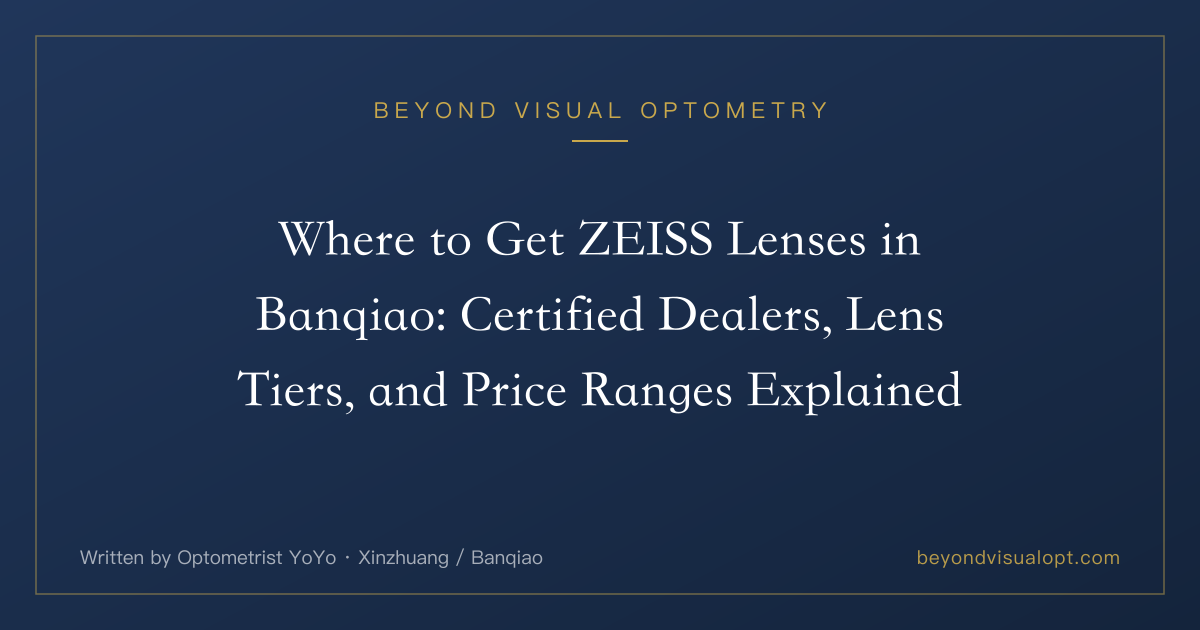
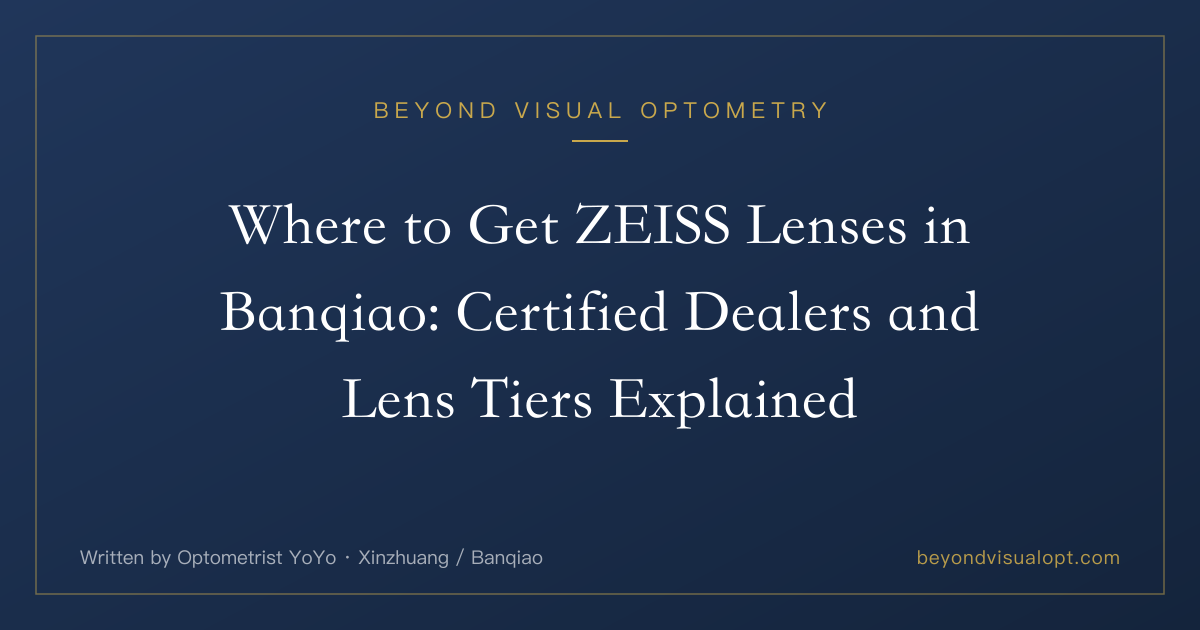
鏡片分類第 1 步：已上線錯誤急修＋標題調整（官網部→國文編審→法務→交叉快篩🟢）
- 板橋蔡司刪價格帶與點名同業「10 分鐘快速驗光」
- NIKON 改依原廠資料：鏡片事業為 Nikon-Essilor 合資；SeeMax Ultimate 為漸進
- 品牌名後效能詞（數位減壓、降低視覺疲勞、脖子痠）改設計結構描述
- 鍍膜「抗藍光並非醫療器材」改「有度數的眼鏡鏡片在台灣屬醫療器材管理」；螢幕族 FAQ 刪睡眠改善
- 經銷「等」字改「蔡司 ZEISS 簽約認證經銷、HOYA 經銷」；「能見度眼鏡行新莊店」店名錯誤修正
- 依視路比較文加經銷揭露句，FAQ 不以「哪裡有」帶出不經銷品牌
- 4 篇 FAQ 格式修正（12 題進 schema）；5 篇 H1 調整

Changed region(s): [[0.185, 0.3016, 0.8017, 0.4222], [0.185, 0.4524, 0.8325, 0.5429], [0.185, 0.573, 0.8017, 0.6937]]

diff --git a/src/content/blog-en/banqiao-zeiss-lens-guide.md b/src/content/blog-en/banqiao-zeiss-lens-guide.md
@@ -1,8 +1,8 @@
 ---
-title: "Where to Get ZEISS Lenses in Banqiao: Certified Dealers, Lens Tiers, and Price Ranges Explained"
+title: "Where to Get ZEISS Lenses in Banqiao: Certified Dealers and Lens Tiers Explained"
 date: "2026-07-08"
 tag: "Lenses"
-excerpt: "Looking to get ZEISS lenses in Banqiao? How do you confirm a store is an officially certified dealer? What's the real difference between ZEISS's entry-level and Individual² tiers, and what's a reasonable price range? Beyond Visual Optometry — a 30-year practice by Jiangzicui Station — breaks it all down."
+excerpt: "Looking to get ZEISS lenses in Banqiao? How do you confirm a store is an officially certified dealer? What's the real difference between ZEISS's entry-level and Individual² tiers? Beyond Visual Optometry — a 30-year practice by Jiangzicui Station — breaks it all down."
 ---
 
 ## Why Does It Matter Whether a Store Is a "Certified ZEISS Dealer"?
@@ -20,32 +20,24 @@ Beyond Visual Optometry (Banqiao) is a certified ZEISS dealer in Taiwan, founded
 | Tier | Representative Series | Best For |
 |------|---------|--------|
 | Standard | ClearView, etc. | Straightforward prescriptions, budget-focused |
-| Digital comfort | Digital Lens | Office workers on screens 6+ hours a day |
+| Near-addition design | Digital Lens | Long stretches of close-range work (screens, phones) |
 | Driving-enhanced | DriveSafe | Frequent drivers concerned about night glare |
 | Progressive multifocal | Progressive series | Presbyopia, needing distance, intermediate, and near all clear |
 | Personalized custom | Individual² | High prescriptions, significant astigmatism, those particular about visual quality |
 
 **The key point: the difference between brands is often smaller than the difference between tiers within the same brand.** A premium, personalized HOYA lens can very plausibly outperform an entry-level ZEISS lens. Beyond Visual Optometry is also a HOYA dealer, so we can compare the two brands side by side objectively — see our [complete lens brand guide](/en/guide/) for more detail.
 
-## Price Range: What Counts as Reasonable?
-
-Common price points in the Banqiao market (in New Taiwan Dollars):
-
-- **Basic single-vision lenses:** about NT$2,000–6,000
-- **ZEISS digital comfort / functional single-vision lenses:** about NT$6,000–12,000
-- **ZEISS progressive lenses:** about NT$12,000–30,000 or more (depending on personalization level)
-
-The core driver of price is the **optical design and personalized parameters**, not the raw material cost. Do a full vision exam first, confirm what you actually need, and then choose a tier — that way you don't overspend. "We don't chase the most expensive option, only the one that actually fits you" has been Beyond Visual Optometry's principle for 30 years.
+What separates the tiers is the **optical design and personalized parameters**. Do a full vision exam first, confirm what you actually need, and then choose a tier. "We don't chase the most expensive option, only the one that actually fits you" has been Beyond Visual Optometry's principle for 30 years.
 
 ## Same ZEISS Lens, So Why Does the Result Differ From Store to Store?
 
 The lens is identical — the difference is in **the fitting**:
 
-- The precision of the objective and subjective refraction (a lot of Banqiao shops still do 10-minute quick refractions, which makes the prescription prone to drift)
+- Whether the objective and subjective refraction, plus a binocular vision assessment, are done in full
 - Whether the personal parameters Individual² needs (wearing distance, pantoscopic tilt, head-turning habits) are actually measured
 - Fitting height and optical-center alignment — a 2mm difference is noticeable for high-prescription wearers
 
-ZEISS provides the optical ceiling; the fitting determines how much of it you actually get to use. Beyond Visual Optometry's full vision exam takes about 45–60 minutes, performed one-on-one by our licensed optometry staff; for glasses fitted with us, frame adjustments after pickup are included at no extra charge.
+ZEISS provides the optical ceiling; the fitting determines how much of it you actually get to use. Beyond Visual Optometry's full vision exam takes about 45–60 minutes and includes a binocular vision assessment every time at both stores, performed one-on-one by our licensed optometry staff; for glasses fitted with us, frame adjustments after pickup are included at no extra charge.
 
 ---
 

diff --git a/src/content/blog-en/essilor-lens-guide.md b/src/content/blog-en/essilor-lens-guide.md
@@ -31,16 +31,16 @@ Varilux is Essilor's flagship progressive multifocal series and one of the names
 
 ---
 
-### Digital-Comfort Lenses: The Eyezen Series
+### Near-Addition Single Vision: The Eyezen Series
 
 Eyezen is Essilor's functional single-vision lens designed for the digital age, with two main features:
 
-1. **Slight accommodative support:** A small amount of added power is built into the lower portion of the lens, reducing the load on the ciliary muscle during close-range work
-2. **Selective blue light filtering:** Filters part of the high-energy, short-wavelength blue light, supporting visual comfort during long screen sessions
+1. **Near-addition design:** A small amount of plus power is added to the lower portion of the lens for close-range viewing (per the manufacturer's public information)
+2. **Blue light filtering:** Filters part of the short-wavelength blue light (per the manufacturer's public information)
 
 Eyezen isn't a presbyopia lens — it looks just like a standard single-vision lens — and suits people aged roughly 20–45 who spend a lot of time on digital devices but don't yet need progressives.
 
-**Best for:** Digital workers, students, and anyone who spends long hours on a phone or computer and notices their eyes get tired after work.
+**Best for:** Digital workers, students, and anyone who spends long hours on a phone or computer.
 
 ---
 
@@ -71,7 +71,7 @@ This is a functional lens that requires assessment and fitting by an optometrist
 
 Essilor's product line spans a wide range, with a substantial price gap between entry-level and premium personalized options. When choosing a lens, the key isn't brand recognition — it's **whether the lens design actually matches how you use your eyes in daily life:**
 
-- Is your main concern near-vision fatigue, or do you need both distance and near equally clear?
+- Do you mostly work up close for long hours, or do you need both distance and near equally clear?
 - Do you spend a lot of time outdoors, or mostly indoors looking at screens?
 - What are your priorities on lens thinness and coating durability?
 
@@ -83,11 +83,11 @@ The visual-quality difference between tiers within the same series is real, but 
 
 **Q: Where in Xinzhuang can I get a consultation on Essilor Varilux progressive lenses?**
 
-At Beyond Visual Optometry (No. 419-1, Zhongzheng Rd., Xinzhuang Dist., New Taipei City), our licensed optometry staff can compare Essilor Varilux objectively against ZEISS and HOYA progressive options, based on your visual habits and presbyopia level. Book at +886-2-2206-6700.
+At Beyond Visual Optometry (No. 419-1, Zhongzheng Rd., Xinzhuang Dist., New Taipei City), our licensed optometry staff can compare Essilor Varilux objectively against the ZEISS and HOYA progressive options we carry, based on your visual habits and presbyopia level. Book at +886-2-2206-6700.
 
-**Q: Where in Banqiao can I find Essilor lenses?**
+**Q: Where in Banqiao can I compare Essilor with other progressive lenses?**
 
-Beyond Visual Optometry (No. 28, Ln. 47, Sec. 2, Shuangshi Rd., Banqiao Dist., New Taipei City) offers progressive lens consultations and brand comparisons. Call +886-2-2253-1246.
+Beyond Visual Optometry (No. 28, Ln. 47, Sec. 2, Shuangshi Rd., Banqiao Dist., New Taipei City) offers progressive lens consultations and brand comparisons. We are a ZEISS and HOYA dealer; the Essilor product details in this article are compiled from the manufacturer's public information for comparison. Call +886-2-2253-1246.
 
 **Q: What's the difference between Varilux and a typical progressive lens?**
 
@@ -95,7 +95,7 @@ Varilux's core technology lies in wavefront aberration correction and personaliz
 
 **Q: What age is Eyezen suitable for?**
 
-There's no strict age limit for Eyezen — it's mainly suited to people who use digital devices heavily and feel eye fatigue after long stretches of close-range work. It's generally recommended for adults 18 and up; for minors, we recommend having an optometrist assess suitability first.
+There's no strict age limit for Eyezen — it's mainly suited to people who use digital devices heavily and do long stretches of close-range work. It's generally recommended for adults 18 and up; for minors, we recommend having an optometrist assess suitability first.
 
 ---
 

diff --git a/src/content/blog/glass-vs-resin-lens.md b/src/content/blog/glass-vs-resin-lens.md
@@ -1,5 +1,5 @@
 ---
-title: 玻璃鏡片和樹脂鏡片差在哪？現在還該選玻璃嗎｜能見度視覺中心
+title: "玻璃鏡片和樹脂鏡片差在哪？現在還有人配玻璃嗎"
 date: 2026-07-27
 tag: "鏡片知識"
 excerpt: 玻璃鏡片耐刮、光學乾淨，卻幾乎在台灣門市消失。樹脂輕、安全、能鍍膜能變色，成了九成以上的選擇。這篇把重量、厚薄、阿貝數、耐刮、抗衝擊一次講清楚，也講明白哪些人現在仍然適合玻璃。新莊、板橋能見度視覺中心，由驗光人員看過你的度數、鏡框，還有你平常怎麼用眼，再說明差別在哪。
@@ -178,23 +178,23 @@ instagram: ""
 
 ## 常見問題
 
-**Q：玻璃鏡片現在還有人在用嗎？**
+### Q：玻璃鏡片現在還有人在用嗎？
 
 有，但比例極低，在台灣門市多半屬於特別訂製的品項。目前還會用到玻璃的，大致是三種人：度數極深、對厚度的要求高到樹脂 1.74 也滿足不了的；用眼環境靜態、對刮痕極度敏感的；還有部分需要特殊光學規格的個案。訂製通常也要多等一段時間。一般的日常配鏡、漸進多焦點、無框鏡架、需要變色或染色的需求，市面上幾乎都是樹脂。適不適合你，建議由驗光人員看過你的度數與鏡框後再判斷。
 
-**Q：樹脂鏡片是不是很容易刮花？**
+### Q：樹脂鏡片是不是很容易刮花？
 
 樹脂的原生材料確實比玻璃軟，但現在的樹脂鏡片出廠時都會加上硬化膜，耐磨表現比早期產品好非常多，正常使用下可以撐過一副眼鏡的完整生命週期。真正把鏡片弄花的，多半是清潔習慣：乾擦、用衣角擦、放桌上鏡面朝下，這三件事最傷鏡片。正確做法是先用清水沖掉表面砂塵，再用乾淨的專用拭鏡布擦。如果你的使用環境粉塵特別多，配鏡時可以主動跟驗光人員討論鍍膜的選擇。
 
-**Q：玻璃鏡片是不是比較清楚？**
+### Q：玻璃鏡片是不是比較清楚？
 
 要看你說的「清楚」是什麼。視力清不清楚，取決於度數配得準不準、鏡片光學中心有沒有對準你的瞳孔、鏡架調整到不到位，這些跟材質沒有直接關係。玻璃真正的光學優勢在**色散比較少**：同樣厚薄等級下，玻璃的阿貝數通常略高，所以在夜間頭燈、路燈這類高反差光源下，物體邊緣的彩色鑲邊會少一些。這在深度數又常在晚上開車的人身上比較容易被感受到，一般日常用眼的差異則相當有限。
 
-**Q：玻璃鏡片可以做變色或抗藍光嗎？**
+### Q：玻璃鏡片可以做變色或抗藍光嗎？
 
 抗反射鍍膜可以做，玻璃本來就是鍍膜技術的起點。變色的部分要注意：傳統玻璃變色是把感光的鹵化銀微晶均勻分布在整片鏡片裡，顏色深淺會隨鏡片厚度改變，度數高的鏡片中央與邊緣厚薄差大，變色後容易出現顏色不均。染色與漸層染色的自由度也遠不如樹脂。如果你有變色、染色或藍光過濾設計的需求，樹脂的可行性與成熟度明顯較高。
 
-**Q：高度近視選玻璃會不會比較薄？**
+### Q：高度近視選玻璃會不會比較薄？
 
 會薄一些，因為玻璃可以做到 1.80、1.90 的折射率，樹脂主流最高是 1.74。但要一起算另一筆帳：高折射率玻璃的比重更高，你換來的薄，代價是更重的鏡片壓在鼻樑上，而且高折射率玻璃的阿貝數也會下降。實務上還要看鏡框，框越大、鏡片直徑越大，厚度與重量的懲罰越明顯。所以高度數要壓厚度，材質只是其中一個變數，鏡框尺寸的選擇往往影響更大。建議帶著現有的眼鏡到門市，由驗光人員實際比對後再決定。
 
@@ -215,4 +215,4 @@ instagram: ""
 
 各折射率與材質規格，官網鏡片專區也整理好了：[能見度鏡片專區](https://beyondvisualopt.com/lenses/)。
 
-（能見度視覺中心經銷蔡司 ZEISS、HOYA 等品牌鏡片，玻璃與樹脂各規格可到店實際比較。）
+（能見度視覺中心是蔡司 ZEISS 簽約認證經銷、HOYA 經銷，玻璃與樹脂各規格可到店實際比較。）

diff --git a/src/content/blog/same-index-different-feel.md b/src/content/blog/same-index-different-feel.md
@@ -1,5 +1,5 @@
 ---
-title: 同樣 1.67，為什麼有些鏡片戴起來就是不一樣｜能見度視覺中心
+title: "同樣是 1.67，為什麼鏡片戴起來會不一樣？"
 date: 2026-08-10
 tag: "鏡片知識"
 excerpt: 兩家店都跟你說「1.67」，價差卻拉開一大截，你以為在買同一片東西。折射率只管一件事：同度數要做多厚。真正決定你戴起來順不順的，是阿貝數、面型設計、鍍膜結構，還有這片鏡片最後裝進了什麼框、對到了什麼位置。新莊、板橋能見度視覺中心，由驗光人員把「1.67」後面沒寫出來的東西講清楚。
@@ -151,23 +151,23 @@ instagram: ""
 
 ## 常見問題
 
-**Q：同樣 1.67，為什麼價差可以到一倍以上？**
+### Q：同樣 1.67，為什麼價差可以到一倍以上？
 
 因為 1.67 只標示了材料的折射率，也就是同度數下鏡片做出來多厚，它沒有標示面型設計、鍍膜規格與是否納入個人化參數。同一個 1.67 可以是球面、非球面、雙面非球面或個人化自由曲面，這幾種的設計與加工成本本來就不同級距；鍍膜的層數與防潑水防油汙處理也各有差異。所以看到價差時，該問的是系列與等級，而不是折射率。實際適不適合你，建議由驗光人員看過你的度數、鏡框與用眼習慣後再判斷。
 
-**Q：1.67 的鏡片是不是一定比 1.60 好？**
+### Q：1.67 的鏡片是不是一定比 1.60 好？
 
 不是。折射率只決定同度數下的厚薄，數字高不代表看得比較清楚。而且折射率往上走，阿貝數多半會往下掉，也就是夜間高反差光源下的色散可能反而多一點。度數不深的人選 1.67，換來的厚薄差異其實有限。折射率是「度數越深越有感」的規格，值不值得，要放進你的度數、鏡框大小與外觀在意程度一起算。
 
-**Q：晚上開車看路燈有一圈彩色的邊，是鏡片有問題嗎？**
+### Q：晚上開車看路燈有一圈彩色的邊，是鏡片有問題嗎？
 
 那多半是色散，跟阿貝數有關，不一定是鏡片瑕疵。高折射率材料的阿貝數較低，色散相對明顯，而且視線越偏離鏡片光學中心（例如轉頭看後照鏡）越容易被察覺。不過在下結論之前，有幾件事要先排除：光學中心有沒有對準瞳孔、鏡框有沒有變形或下滑、抗反射鍍膜的狀況如何。這幾件都會影響夜間的視覺舒適度，驗光人員實際量過才分得出是哪一段造成的，眼鏡帶著一起來會快很多。
 
-**Q：換品牌會不會比較好？**
+### Q：換品牌會不會比較好？
 
 不一定，要看你換的是「品牌」還是「等級」。同一個品牌裡，入門系列跟個人化系列的落差，常常比兩個品牌的同等級之間更大。真正決定體感的順序是：驗光精準度 → 配鏡參數 → 鏡框調整 → 鏡片設計與材質。前三項沒到位就換品牌，通常換不出你要的結果。
 
-**Q：我要怎麼知道自己現在戴的是哪一種 1.67？**
+### Q：我要怎麼知道自己現在戴的是哪一種 1.67？
 
 把你的配鏡單據或鏡片保證書帶著，上面通常會註記系列名稱與鍍膜項目。如果單據已經找不到了，帶著眼鏡到門市，驗光人員可以用鏡片鑑別的方式協助判讀基本資訊，再對照你實際的用眼狀況，看看下一副該調整哪一段。
 
@@ -186,4 +186,4 @@ instagram: ""
 
 各折射率與系列規格，官網鏡片專區也整理好了：[能見度鏡片專區](/lenses/)。
 
-（能見度視覺中心經銷蔡司 ZEISS、HOYA 等品牌鏡片，各折射率與系列規格可到店實際比較。）
+（能見度視覺中心是蔡司 ZEISS 簽約認證經銷、HOYA 經銷，各折射率與系列規格可到店實際比較。）

diff --git a/src/content/blog/essilor-lens-guide.md b/src/content/blog/essilor-lens-guide.md
@@ -31,16 +31,16 @@ Varilux 是依視路的旗艦漸進多焦點系列，也是全球漸進鏡片的
 
 ---
 
-### 數位減壓鏡片：Eyezen 系列
+### 近用加成設計單光：Eyezen 系列
 
 Eyezen 是依視路針對數位時代設計的功能型單光鏡片，主要特色有兩個：
 
-1. **輕微調節輔助設計**：鏡片下方加入微量加入度，減少睫狀肌在近距離用眼時的負荷
-2. **選擇性藍光過濾**：過濾部分高能短波藍光，降低長時間看螢幕的視覺疲勞感
+1. **分區度數設計**：鏡片下方加入少量正度數，對應看近距離的用眼（依原廠公開資料）
+2. **藍光過濾**：過濾一部分短波長藍光（依原廠公開資料）
 
 Eyezen 不是老花鏡，外觀與一般單光鏡片相同，適合 20–45 歲、每天大量使用 3C 設備但尚不需要漸進多焦點的族群。
 
-**適合族群：** 數位工作者、學生、長時間使用手機或電腦且感覺下班後眼睛容易疲勞的族群。
+**適合族群：** 數位工作者、學生，以及每天長時間看手機或電腦的人。
 
 ---
 
@@ -71,7 +71,7 @@ Stellest 是依視路近年推出的兒童離焦設計鏡片，採用**H.A.L.T. 
 
 Essilor 的產品線相當廣，從入門到頂級個人化訂製價差極大。選鏡片時，關鍵不在品牌知名度，而在於**這片鏡片的設計是否符合你實際的用眼情境**：
 
-- 你主要需要解決的是近距離疲勞，還是遠近都要清楚？
+- 你主要是長時間看近，還是遠近都要清楚？
 - 你每天在戶外的時間多，還是大多待在室內看螢幕？
 - 你對鏡片厚薄、鍍膜耐用度的要求是什麼？
 
@@ -83,11 +83,11 @@ Essilor 的產品線相當廣，從入門到頂級個人化訂製價差極大。
 
 **Q：新莊哪裡可以諮詢依視路 Varilux 漸進鏡片？**
 
-能見度視覺中心 × 比泱驗光所（新北市新莊區中正路419-1號）可由驗光人員依據你的用眼習慣與老花度數，客觀比較依視路 Varilux 與蔡司、HOYA 等品牌的漸進方案，歡迎預約 02-2206-6700。
+能見度視覺中心 × 比泱驗光所（新北市新莊區中正路419-1號）可由驗光人員依據你的用眼習慣與老花度數，客觀比較依視路 Varilux 與本店經銷的蔡司、HOYA 漸進方案，歡迎預約 02-2206-6700。
 
-**Q：板橋哪裡有依視路鏡片可以選？**
+**Q：板橋哪裡可以比較依視路與其他品牌的漸進鏡片？**
 
-能見度眼鏡行 × 能見度驗光所（新北市板橋區雙十路二段47巷28號）提供漸進多焦點鏡片選配諮詢與品牌比較，歡迎來電諮詢 02-2253-1246。
+能見度眼鏡行 × 能見度驗光所（新北市板橋區雙十路二段47巷28號）提供漸進多焦點鏡片選配諮詢與品牌比較。本店經銷蔡司 ZEISS 與 HOYA；本文的依視路產品資訊依原廠公開資料整理，供比較參考。歡迎來電諮詢 02-2253-1246。
 
 **Q：Varilux 和一般漸進鏡片有什麼差別？**
 
@@ -95,7 +95,7 @@ Varilux 的核心技術在於波前像差補正與個人化計算，讓視野過
 
 **Q：Eyezen 適合多大年齡配戴？**
 
-Eyezen 沒有嚴格的年齡限制，主要適合大量使用 3C 設備、長時間近距離用眼後感覺疲勞的族群。一般建議 18 歲以上成人使用，未成年族群建議由驗光人員評估後決定。
+Eyezen 沒有嚴格的年齡限制，主要適合大量使用 3C 設備、長時間近距離用眼的族群。一般建議 18 歲以上成人使用，未成年族群建議由驗光人員評估後決定。
 
 ---
 

diff --git a/src/content/blog-en/lens-coating-guide.md b/src/content/blog-en/lens-coating-guide.md
@@ -64,7 +64,7 @@ This is an optional feature, especially useful for anyone who wears a mask for l
 
 Blue-light coating filters out a portion of the shorter-wavelength **high-energy visible blue light**, much of which comes from phone, computer, and tablet screens. In practice, it **filters specific wavelength bands of blue light**; some users report a more comfortable viewing experience during long screen sessions, and the lens may carry a slight yellowish tint or reflective cast.
 
-To be clear: blue-light coating is a type of **light-filtering** design. It is not a medical device, and it cannot claim to prevent any eye disease or condition. Whether it's right for you depends on your actual screen habits, not on what an ad claims. For a fuller picture of screen use and visual fatigue, see our guide to digital eye strain.
+To be clear: blue-light coating is a type of **light-filtering** design. Prescription eyeglass lenses are regulated as medical devices in Taiwan, and the coating cannot claim to prevent or treat any eye disease. Whether it's right for you depends on your actual screen habits, not on what an ad claims. For a fuller picture of screen use and visual fatigue, see our guide to digital eye strain.
 
 **What it solves:** filtering part of the high-energy blue light and adjusting visual comfort during extended screen use.
 
@@ -123,7 +123,7 @@ The answers to these questions decide what coating you need — far more reliabl
 
 **Q: Is blue-light coating necessary?**
 
-It depends on your screen habits. Blue-light coating filters part of the high-energy short-wavelength blue light mainly emitted by screens, and some people who spend long hours looking at screens report it feels more comfortable. That said, it isn't a medical device and can't claim to prevent eye disease. If you spend more than 6 hours a day on a computer or phone, it's worth considering; if your screen time is limited, it may not be essential. We recommend discussing your actual situation with a licensed optometrist.
+It depends on your screen habits. Blue-light coating filters part of the short-wavelength blue light. Prescription eyeglass lenses are regulated as medical devices in Taiwan, and the coating can't claim to prevent or treat eye disease. If you spend long hours on a computer or phone each day, it's worth considering; if your screen time is limited, it may not be essential. We recommend discussing your actual situation with a licensed optometrist.
 
 **Q: Do lens coatings wear off?**
 

diff --git a/src/content/blog-en/hoya-lens-guide.md b/src/content/blog-en/hoya-lens-guide.md
@@ -4,7 +4,7 @@ date: "2026-06-24"
 tag: "Lenses"
 excerpt: "HOYA is one of Japan's leading names in precision optics, with a lineup spanning single-vision lenses to personalized progressive multifocals that covers nearly every visual need. Optometrist YoYo at Beyond Visual Optometry walks you through the design logic behind each HOYA series and who it's best suited for."
 seoTitle: "HOYA Lenses Explained | Japanese Lens Brand Series Guide | Beyond Visual Optometry Xinzhuang & Banqiao"
-seoDescription: "A complete guide to HOYA's lens series: Nulux single-vision, iD progressive multifocals, Sync III digital-strain relief, and MiYOSMART defocus lens design. Optometrist YoYo at Beyond Visual Optometry's Xinzhuang store explains the design logic and ideal candidates for each series."
+seoDescription: "A complete guide to HOYA's lens series: Nulux single-vision, iD progressive multifocals, Sync III near-addition design, and MiYOSMART defocus lens design. Optometrist YoYo at Beyond Visual Optometry's Xinzhuang store explains the design logic and ideal candidates for each series."
 keywords: "HOYA lenses,HOYA progressive lenses,HOYA iD,HOYA Sync III,HOYA MiYOSMART,Japanese lens brands,Xinzhuang HOYA,Banqiao HOYA lenses,Beyond Visual Optometry"
 ---
 
@@ -28,13 +28,13 @@ Nulux EP (Enhanced Performance) further optimizes the design around the eye's na
 
 ---
 
-### Digital-Strain Relief Lenses: Sync III
+### Near-Addition Single Vision: Sync III
 
 For people who spend long hours on their phone or computer, near-distance use dominates the visual routine. Sync III is HOYA's functional lens designed for this usage pattern, building a subtle **near-support design** into the lower part of the lens. It looks identical to a regular single-vision lens and needs no adaptation to a progressive zone; whether it suits you depends on your individual visual needs and should be assessed through an eye exam.
 
 This isn't a reading lens, and it isn't a progressive multifocal. It has virtually no effect on appearance, making it suited to people aged 20–40 who use screens more than 6 hours a day but don't yet need multifocal correction.
 
-**Best for:** office workers and students who spend long hours on digital devices and notice their eyes feel sore and tired after work.
+**Best for:** office workers and students who spend long hours on digital devices.
 
 ---
 
